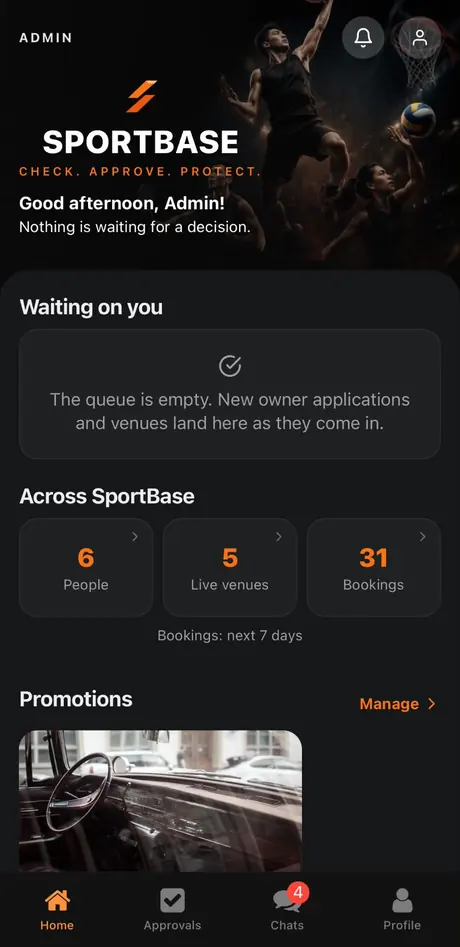
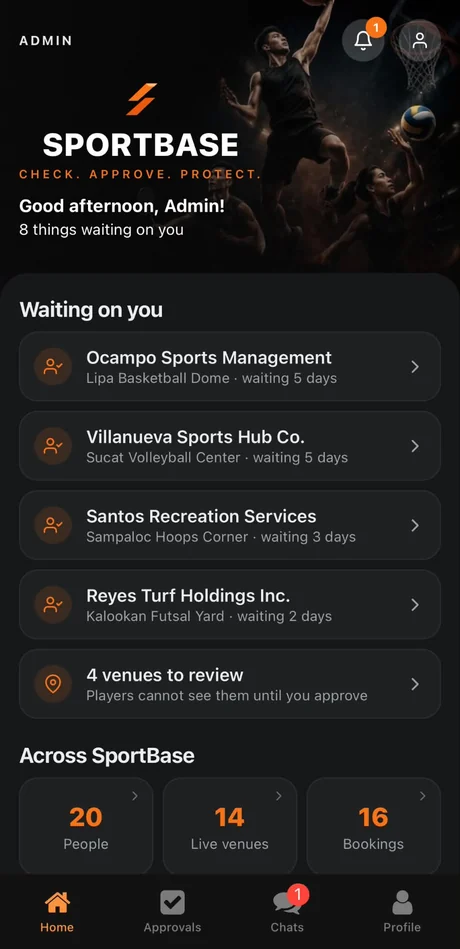
The last three screens, with statuses in words

diff --git a/index.html b/index.html
@@ -1346,6 +1346,10 @@
           <figcaption>Read by a person</figcaption>
         </figure>
         <figure>
+          <div class="frame"><img src="shot-a-bookings.webp" width="460" height="947" alt="Every booking across SportBase, split into today, upcoming, past and cancelled" loading="lazy"></div>
+          <figcaption>Every booking, everywhere</figcaption>
+        </figure>
+        <figure>
           <div class="frame"><img src="shot-a-chats.webp" width="460" height="947" alt="Admin messages with owners and players" loading="lazy"></div>
           <figcaption>Messages and support</figcaption>
         </figure>
@@ -1538,7 +1542,7 @@
   </div>
   <div class="wrap foot-base">
     <span>&copy; 2026 SportBase &middot; Philippines</span>
-    <span>In development &middot; venues onboarding now &middot; <span class="build">build 2026-09-16 09:45 UTC</span></span>
+    <span>In development &middot; venues onboarding now &middot; <span class="build">build 2026-09-16 09:57 UTC</span></span>
   </div>
 </footer>
 
